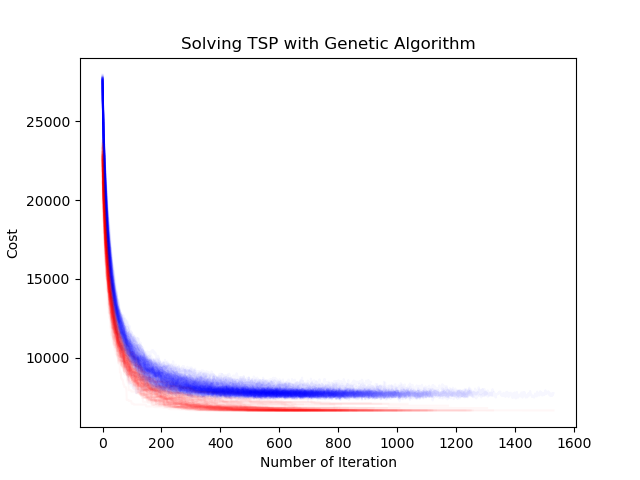
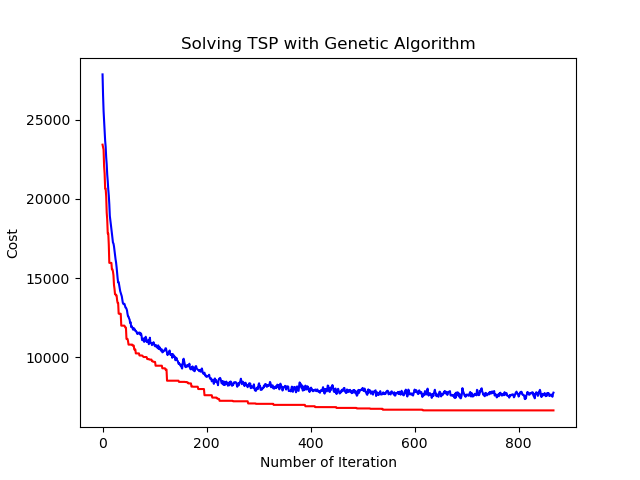
add path trace

diff --git a/optimiz-exp/main.py b/optimiz-exp/main.py
@@ -35,7 +35,7 @@ for i in range(n):
 # initialization
 
 opt_cost = 6659.439330623091  # get result from tsp_gurobi.py
-num_tests = 100  # number of iid tests
+num_tests = 1  # number of iid tests
 result = {'best_sol': [], 'best_cost': math.inf, 'best_gap': math.inf,
           'cost': [0] * num_tests, 'time': [0] * num_tests,
           'avg_cost': math.inf, 'avg_gap': math.inf, 'cost_std': math.inf,
@@ -47,9 +47,9 @@ data = {}
 
 # set method
 
-# method = 'ts'  # tabu search
+method = 'ts'  # tabu search
 # method = 'ga'  # genetic algorithm
-method = 'sa'  # simulated annealing
+# method = 'sa'  # simulated annealing
 
 
 # set mutation method
@@ -106,69 +106,61 @@ pprint(result)
 
 
 # SA visualization
-# https://matplotlib.org/stable/gallery/animation/dynamic_image.html
-# https://stackoverflow.com/questions/49158604/matplotlib-animation-update-title-using-artistanimation
-# https://stackoverflow.com/questions/17895698/updating-the-x-axis-values-using-matplotlib-animation
-if num_tests == 1 and method == 'simulated annealing':
-    fig, ax = plt.subplots(1, 2, figsize=(8, 4))
-    plt.subplots_adjust(wspace=0.3)  # more interval between two axes
+if num_tests == 1:
+    if method_name == 'Simulated Annealing':
+        fig, ax = plt.subplots(figsize=(8, 6))
 
-    xlim = [np.min(pos, 0)[0], np.max(pos, 0)[0]]
-    ylim = [np.min(pos, 0)[1], np.max(pos, 0)[1]]
-    ax[0].set(xlabel='X Axis', ylabel='Y Axis',
-              xlim=xlim, ylim=ylim,
-              title='Current and Optimal Tours')
-    ax[1].set(xlabel='Number of Iteration', ylabel='Tour Length',
-              title='Convergence Curve')
-    ims = []
-    for i in range(len(data['sol'])):
-        im = []
-        sol = data['sol'][i]
-        best_sol = data['best_sol'][i]
-        cost = list(data['cost'])[:i]
-        best_cost = list(data['best_cost'])[:i]
+        final_sol = data['best_sol'][-1]
 
-        if i > 2 and cost[-1] == cost[-2]:
-            continue
+        xlim = [np.min(pos, 0)[0], np.max(pos, 0)[0]]
+        ylim = [np.min(pos, 0)[1], np.max(pos, 0)[1]]
+        ax.set(xlabel='X Axis', ylabel='Y Axis',
+            xlim=xlim, ylim=ylim,
+            title='Optimal Tour with Simulated Annealing')
 
-        # https://matplotlib.org/stable/gallery/shapes_and_collections/line_collection.html
-        lines = [[pos[sol[_]], pos[sol[(_ + 1) % n]]] for _ in range(n)]
-        line_segments = LineCollection(lines, color='b')
-        im.append(ax[0].add_collection(line_segments))
-        lines = [[pos[best_sol[_]], pos[best_sol[(_ + 1) % n]]] for _ in range(n)]
-        line_segments = LineCollection(lines, color='r', alpha=0.5, linewidth=2)
-        im.append(ax[0].add_collection(line_segments))
+        ax.scatter([p[0] for p in pos], [p[1] for p in pos], c='black', s=30)
 
-        # # plot directed tour, too slow
-        # # https://stackoverflow.com/questions/46506375/creating-graphics-for-euclidean-instances-of-tsp
-        # for j in range(n):
-        #     start_pos = pos[sol[j]]
-        #     end_pos = pos[sol[(j + 1) % n]]
-        #     im.append(ax[0].annotate("",
-        #                  xy=start_pos, xycoords='data',
-        #                  xytext=end_pos, textcoords='data',
-        #                  arrowprops=dict(arrowstyle='->',
-        #                                  connectionstyle='arc3',
-        #                                  alpha=1,
-        #                                  color='b')))
-        # for j in range(n):
-        #     start_pos = pos[best_sol[j]]
-        #     end_pos = pos[best_sol[(j + 1) % n]]
-        #     im.append(ax[0].annotate("",
-        #                  xy=start_pos, xycoords='data',
-        #                  xytext=end_pos, textcoords='data',
-        #                  arrowprops=dict(arrowstyle='->',
-        #                                  connectionstyle='arc3',
-        #                                  lw=2,
-        #                                  alpha=0.5,
-        #                                  color='r')))
+        lines = [[pos[final_sol[i]], pos[final_sol[(i + 1) % n]]] for i in range(n)]
+        line_segments = LineCollection(lines, color='r', linewidth=1.5)
+        ax.add_collection(line_segments)
 
-        line1, = ax[1].plot(range(len(cost)), cost, color='b')
-        line2, = ax[1].plot(range(len(best_cost)), best_cost, color='r')
-        im.append(line1)
-        im.append(line2)
-        ims.append(im)
+        plt.savefig('results/sa_path.png', dpi=300, bbox_inches='tight')
+        plt.close()
+    elif method_name == 'Tabu Search':
+        fig, ax = plt.subplots(figsize=(8, 6))
 
-    ani = animation.ArtistAnimation(fig, ims, interval=10, blit=True,
-                                    repeat_delay=1000)
-    ani.save('results/sa.mp4')
+        final_sol = data['best_sol'][-1]
+
+        xlim = [np.min(pos, 0)[0], np.max(pos, 0)[0]]
+        ylim = [np.min(pos, 0)[1], np.max(pos, 0)[1]]
+        ax.set(xlabel='X Axis', ylabel='Y Axis',
+            xlim=xlim, ylim=ylim,
+            title='Optimal Tour with Simulated Annealing')
+
+        ax.scatter([p[0] for p in pos], [p[1] for p in pos], c='black', s=30)
+
+        lines = [[pos[final_sol[i]], pos[final_sol[(i + 1) % n]]] for i in range(n)]
+        line_segments = LineCollection(lines, color='r', linewidth=1.5)
+        ax.add_collection(line_segments)
+
+        plt.savefig('results/ts_path.png', dpi=300, bbox_inches='tight')
+        plt.close()
+    elif method_name == 'Genetic Algorithm':
+        fig, ax = plt.subplots(figsize=(8, 6))
+
+        final_sol = data['best_sol'][-1]
+
+        xlim = [np.min(pos, 0)[0], np.max(pos, 0)[0]]
+        ylim = [np.min(pos, 0)[1], np.max(pos, 0)[1]]
+        ax.set(xlabel='X Axis', ylabel='Y Axis',
+            xlim=xlim, ylim=ylim,
+            title='Optimal Tour with Simulated Annealing')
+
+        ax.scatter([p[0] for p in pos], [p[1] for p in pos], c='black', s=30)
+
+        lines = [[pos[final_sol[i]], pos[final_sol[(i + 1) % n]]] for i in range(n)]
+        line_segments = LineCollection(lines, color='r', linewidth=1.5)
+        ax.add_collection(line_segments)
+
+        plt.savefig('results/ga_path.png', dpi=300, bbox_inches='tight')
+        plt.close()

diff --git a/optimiz-exp/tb.py b/optimiz-exp/tb.py
@@ -82,7 +82,8 @@ def tb(n, adj_mat, tb_size, max_tnm, mut_md, term_count):
     fq_dict = {}
     best_sol = sol.copy()
     best_cost = get_cost(n, adj_mat, sol)
-    data = {'cost': deque([]), 'best_cost': deque([])}
+    data = {'cost': deque([]), 'best_cost': deque([]), 
+            'sol': deque([]), 'best_sol': deque([])}  # 添加sol和best_sol的记录
     count = 0
     while True:
         sol, cost, tb_list, fq_dict = tnm_selection(n, adj_mat, sol,
@@ -90,13 +91,18 @@ def tb(n, adj_mat, tb_size, max_tnm, mut_md, term_count):
                                                     tb_list, fq_dict, best_cost)
         # mention the iteratively variable 'sol'!
         if cost < best_cost:
-            best_sol = sol
+            best_sol = sol.copy()  # 使用copy()确保保存的是解的副本
             best_cost = cost
             count = 0
         else:
             count += 1
+        
+        # 记录当前解和全局最优解
         data['cost'].append(cost)
         data['best_cost'].append(best_cost)
+        data['sol'].append(sol.copy())  # 记录当前解
+        data['best_sol'].append(best_sol.copy())  # 记录全局最优解
+        
         if count > term_count:
             break
     data['fq_dict'] = fq_dict

diff --git a/optimiz-exp/ga.py b/optimiz-exp/ga.py
@@ -69,7 +69,8 @@ def mutation(p, r_mut):
 def ga(n, adj_mat, n_pop, r_cross, r_mut, selection_md, max_tnm, term_count):
     pop = [random.sample(range(n), n) for _ in range(n_pop)]
     best_sol, best_cost = pop[0], get_cost(n, adj_mat, pop[0])  # randomly initialize best!
-    data = {'cost': deque([]), 'best_cost': deque([])}  # cost means avg_cost
+    data = {'cost': deque([]), 'best_cost': deque([]), 
+            'sol': deque([]), 'best_sol': deque([])}  # 添加sol和best_sol的记录
     count = 0
     # select parents
     if selection_md == 'tnm':
@@ -90,8 +91,13 @@ def ga(n, adj_mat, n_pop, r_cross, r_mut, selection_md, max_tnm, term_count):
             count += 1
         else:  # best_cost change
             count = 0
+
+        # 记录当前最好的个体和平均成本
         data['cost'].append(np.mean(costs))
         data['best_cost'].append(best_cost)
+        data['sol'].append(pop[np.argmin(costs)])  # 记录当前种群中最好的解
+        data['best_sol'].append(best_sol.copy())  # 记录全局最优解
+
         if count > term_count:
             return best_sol, best_cost, data
         selected = [selection_fnc(pop, costs, max_tnm=max_tnm) for _ in range(n_pop)]
